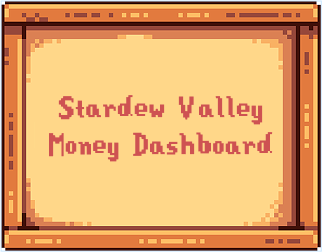
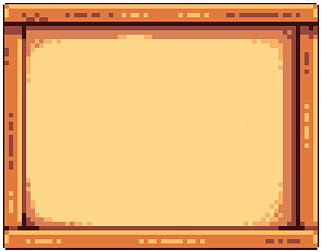
update loading sign

diff --git a/index.html b/index.html
@@ -8,28 +8,26 @@
   <script src="https://d3js.org/d3.v7.min.js"></script>
   <title>Info 247 Final Project</title>
 </head>
-<body class="load-back">
+<body>
     <div class="titlecard-container">
-        <img src="assets/layout/titleCard.png" alt="Title Card">
+        Stardew Valley Money Dashboard
     </div>
     
     <div class="icons">
-        <div class="icons-container">
-            <div id="crops-container" class="icon-container">
-                <a href="crops.html" class="btn" id="cropBtn">
-                    Crops
-                </a>
-            </div>
-            <div id="fish-container" class="icon-container">
-                <a href="fish.html" class="btn" id="fishBtn">
-                    Fish
-                </a>
-            </div>
-            <div id="animal-container" class="icon-container">
-                <a href="animals.html" class="btn" id="animalBtn">
-                    Animals
-                </a>
-            </div>
+        <div id="crops-container" class="icon-container">
+            <a href="crops.html" class="btn" id="cropBtn">
+                Crops
+            </a>
+        </div>
+        <div id="fish-container" class="icon-container">
+            <a href="fish.html" class="btn" id="fishBtn">
+                Fish
+            </a>
+        </div>
+        <div id="animal-container" class="icon-container">
+            <a href="animals.html" class="btn" id="animalBtn">
+                Animals
+            </a>
         </div>
     </div>
   <script src="assets/scripts/explodecrops.js"></script>

diff --git a/assets/css/loading.css b/assets/css/loading.css
@@ -12,6 +12,9 @@ body {
     height: 100vh;
     margin: 0;
     animation: panDown 5s linear ;
+    position: relative;
+    display: flex;
+    align-items: center;
 }
 
 svg {
@@ -25,13 +28,19 @@ svg {
 }
 
 .titlecard-container {
+    width: 30%;
+    padding: 180px 20px;
+    color: #CE5252;
+    font-family: 'Stardew Valley';
+    font-size: 3rem;
+    text-align: center;
     display: flex;
     justify-content: center;  
     align-items: center;    
     overflow: hidden ;
-}
-.titlecard-container img {
-    padding: 15px;
+    margin: 0 auto;
+    background: url('../layout/titleCard.png') no-repeat center;
+    background-size: contain;
     transform: translateY(-100%);
     animation: imageSlideIn 5s ease-out forwards;
 }
@@ -44,21 +53,16 @@ svg {
     padding: 15px 15px;
     margin: 20px 20px;
     cursor: pointer;
-
-
 }
 
 
 .icons {
     width: 100%;
-    height: 100%;
-    position: relative;
+    padding: 0 20%;
+    position: absolute;
+    bottom: 10vh;
     display: flex;
-    align-items: center;
-    justify-content: center;
-}
-.icons-container {
-    display: flex;
+    justify-content: space-between;
 }
 
 .icon-container {
@@ -67,7 +71,7 @@ svg {
     justify-content: center;
 }
 
-.icon-container svg {
+.icons svg {
     position: absolute;
     pointer-events: none;
     z-index: -1;

diff --git a/animals.html b/animals.html
@@ -93,7 +93,7 @@
 
         <main>
             <div class="container">
-                <div class="col-4">
+                <div>
                     <h2>Animal Enclosure Comparison</h2>
                     <p>There is limited space in each enclosure, and not every animal produces high selling products.</p>
                     <br>
@@ -102,7 +102,6 @@
                 <div id="observablehq-cropComparison-f8768f36"></div>-->
                 <div id="observablehq-viewof-selectBuilding-c59b6e72"></div>
                 <div id="observablehq-animalProductComparison-c59b6e72"></div>
-    
             </div>
         
             <div class="container">

diff --git a/assets/css/style.css b/assets/css/style.css
@@ -39,7 +39,7 @@ html {
 
 @font-face {
     font-family: "Stardew Valley";
-    src: url("../fonts/stardew_valley.otf");
+    src: url(../fonts/stardew_valley.otf);
     font-weight: normal;
     font-style: normal;
 }
@@ -380,6 +380,23 @@ main > .container:nth-child(2) > div:first-child,  main > .container:first-child
 }
 
 
+.container {
+    margin-bottom: 4rem;
+}
+
+
+.observablehq {
+    width: 100%;
+    margin: 0 auto;
+    padding: 24px;
+    background: white;
+    margin-bottom: 4rem;
+}
+.observablehq h2 {
+    font-weight: normal;
+    text-transform: capitalize;
+    font-size: 1rem;
+}
 
 
 
